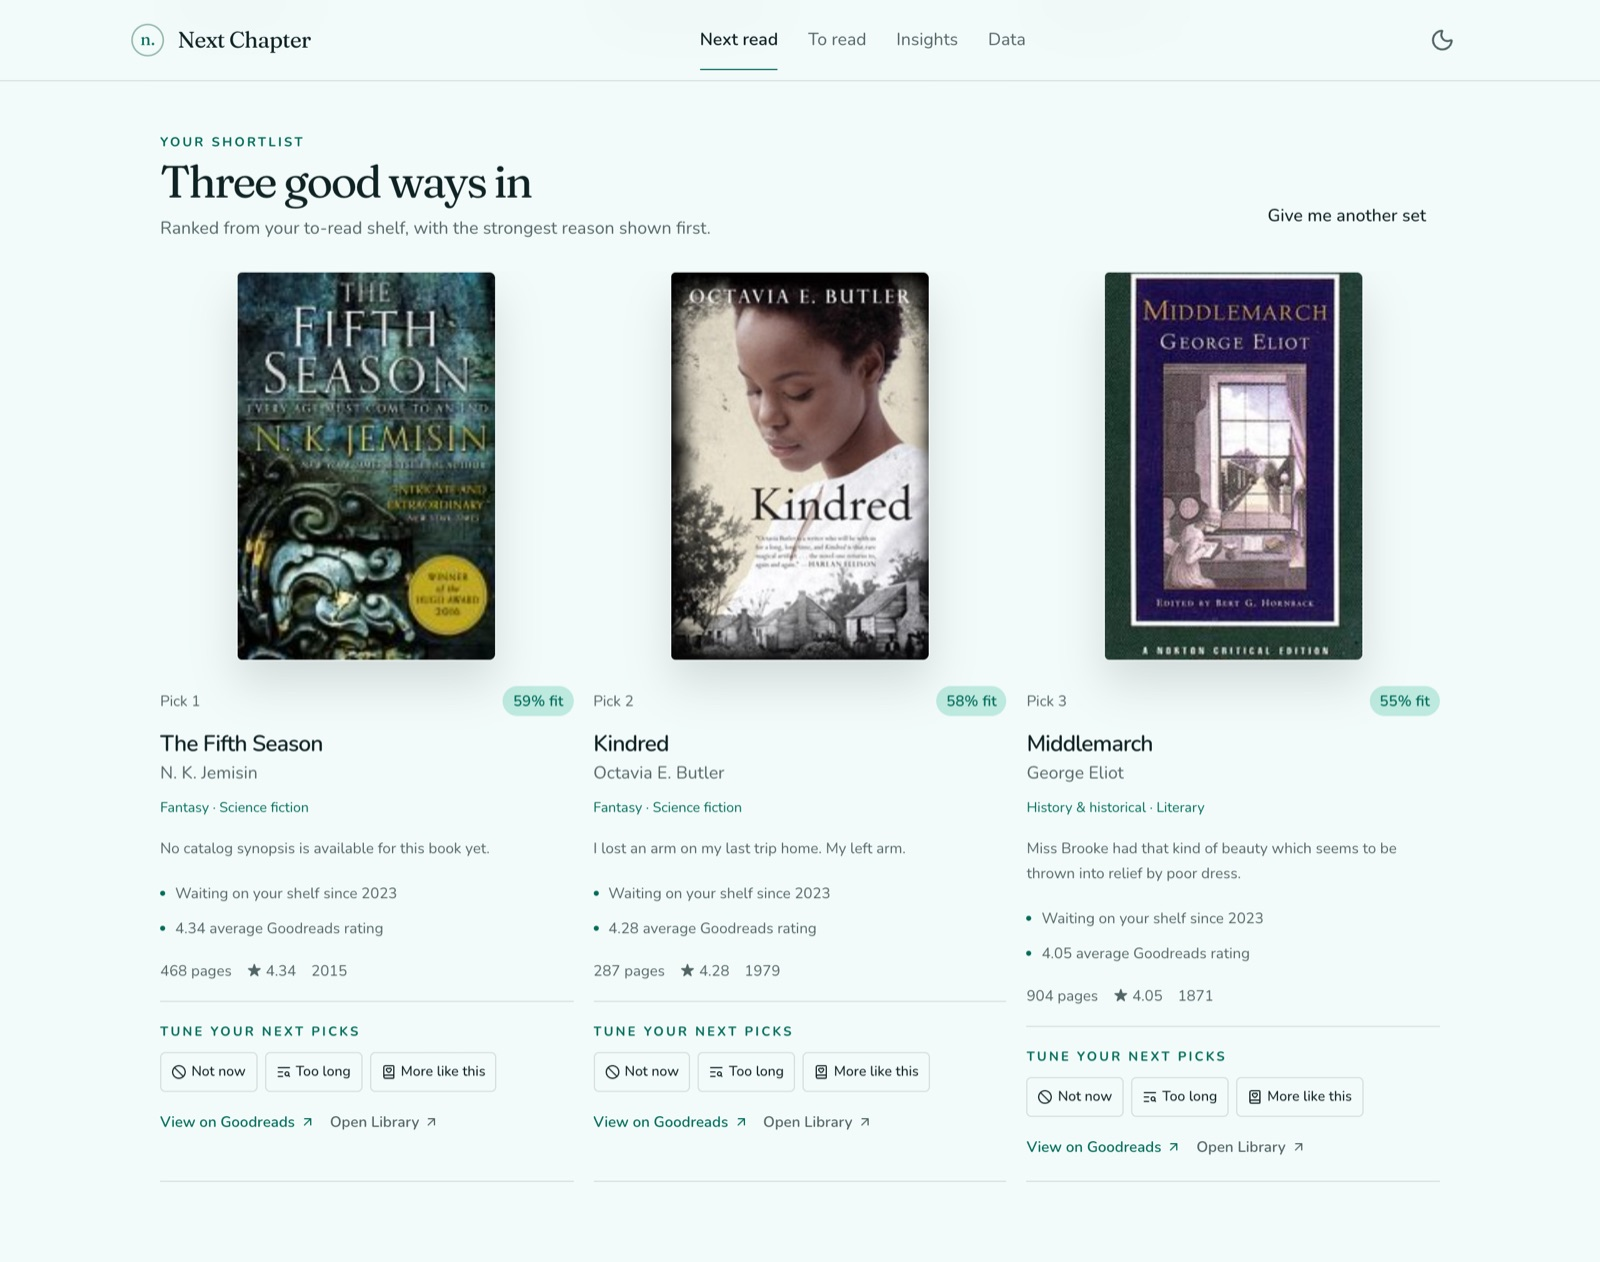
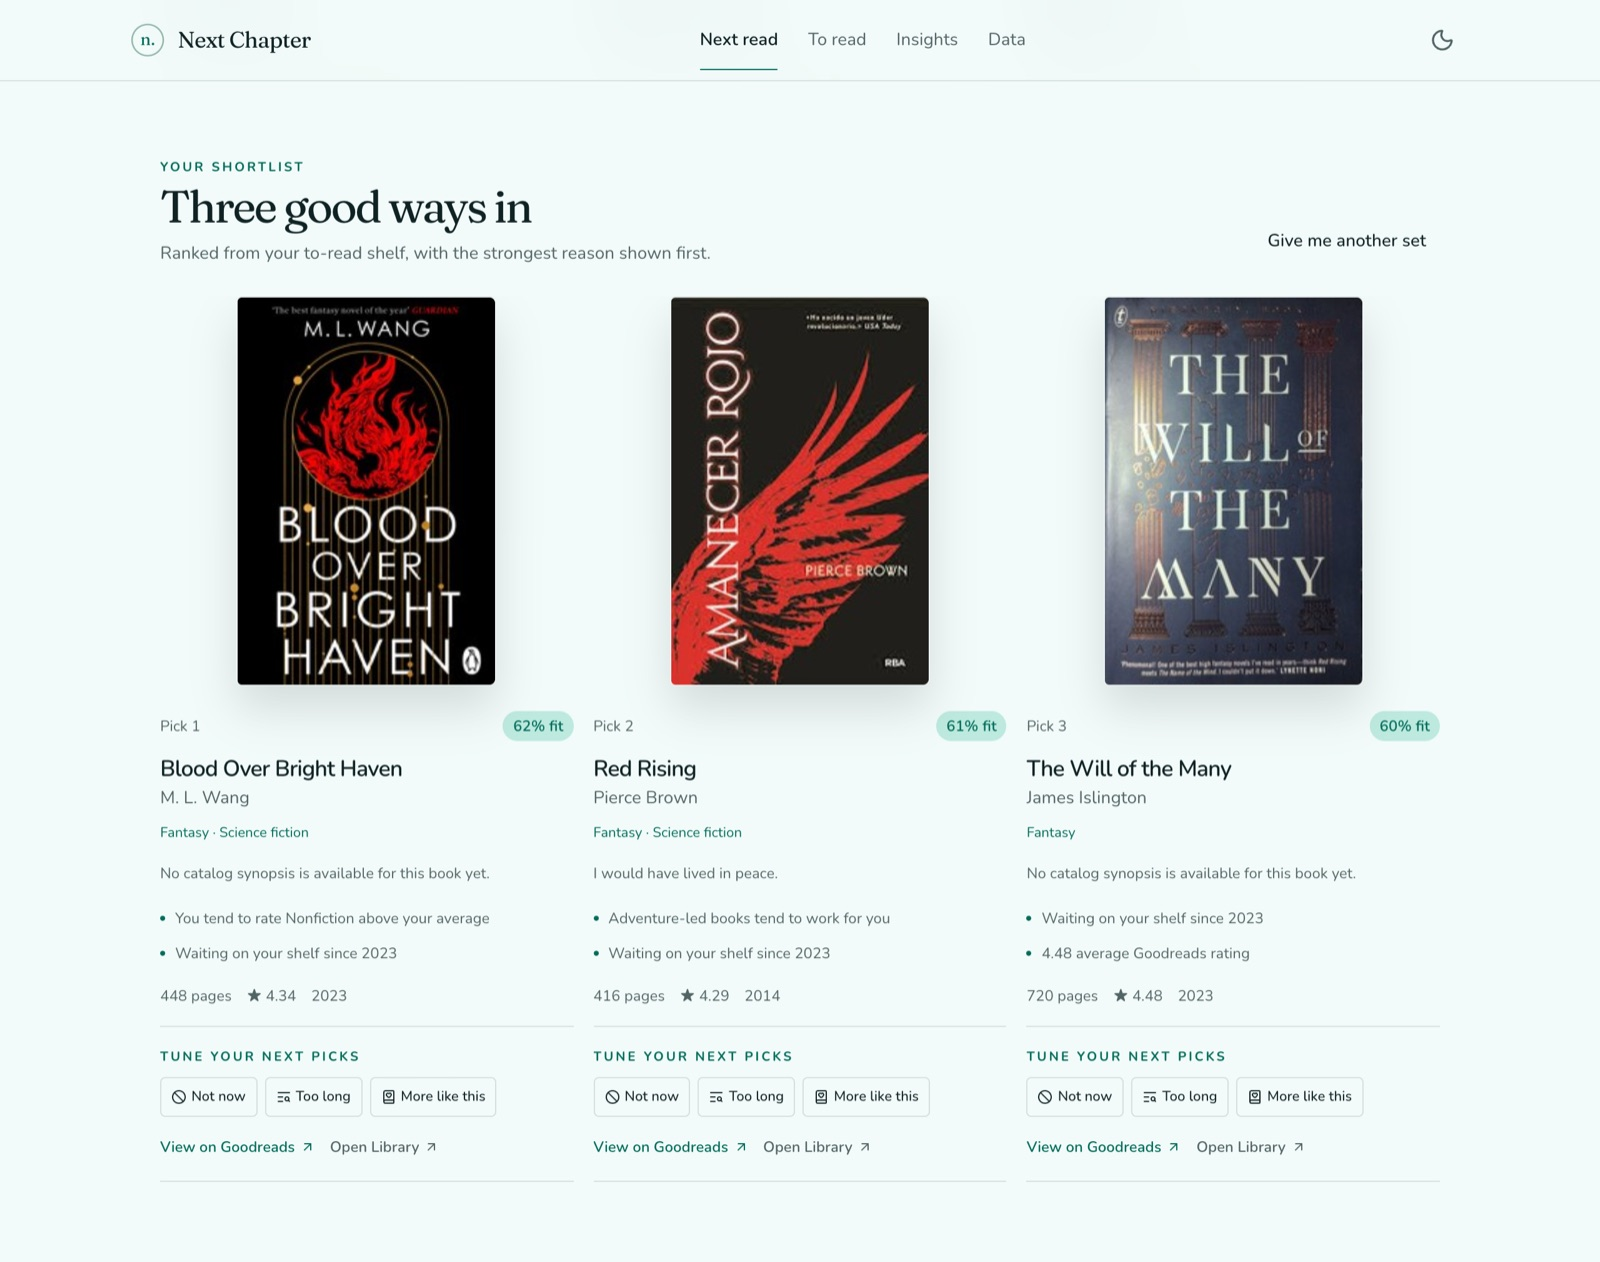
Even up the Insights widths, link the site, reshoot the shortlist
Reader profile and Book ranking were laid out in a 4xl column while
Reading years used 5xl, so moving between the three tabs shifted the
page width under the cursor. All three are 5xl now, skeletons included.

The README had no link to the published app, unlike Movie Companion's.

The shortlist screenshot now shows The Will of the Many, Red Rising and
Blood Over Bright Haven, from a sample shelf whose read books lean
fantasy and science fiction so the stated reasons have something behind
them.

Changed region(s): [[0.0938, 0.0927, 0.875, 0.9271], [0.6875, 0.1545, 0.9062, 0.5872], [0.0938, 0.5563, 0.3125, 0.9271]]

diff --git a/components/taste-view.tsx b/components/taste-view.tsx
@@ -24,7 +24,7 @@ export function TasteView({
 }) {
   if (loading)
     return (
-      <div className="mx-auto h-[560px] max-w-4xl animate-pulse rounded-sm bg-card" />
+      <div className="mx-auto h-[560px] max-w-5xl animate-pulse rounded-sm bg-card" />
     );
   if (profile.overallAverage === null) {
     return (
@@ -47,7 +47,7 @@ export function TasteView({
   }
 
   return (
-    <section className="mx-auto max-w-4xl">
+    <section className="mx-auto max-w-5xl">
       <div className="flex flex-wrap items-end justify-between gap-4">
         <div>
           <p className="eyebrow">Your story compass</p>

diff --git a/components/ranking-view.tsx b/components/ranking-view.tsx
@@ -76,12 +76,12 @@ export function RankingView({
 
   if (loading) {
     return (
-      <div className="mx-auto h-[620px] max-w-4xl animate-pulse rounded-sm bg-card" />
+      <div className="mx-auto h-[620px] max-w-5xl animate-pulse rounded-sm bg-card" />
     );
   }
 
   return (
-    <section className="mx-auto max-w-4xl">
+    <section className="mx-auto max-w-5xl">
       <div className="flex flex-wrap items-end justify-between gap-4">
         <div>
           <p className="eyebrow">Personal leaderboard</p>

diff --git a/README.md b/README.md
@@ -2,6 +2,8 @@
 
 ### Less scrolling. More reading.
 
+[Open Next Chapter](https://emmavellard.github.io/NextChapter/)
+
 Next Chapter turns an overflowing Goodreads shelf into three thoughtful choices
 for what to read next. Choose the kind of book you want, see why each title
 fits, and start a new chapter without spending the evening comparing hundreds
